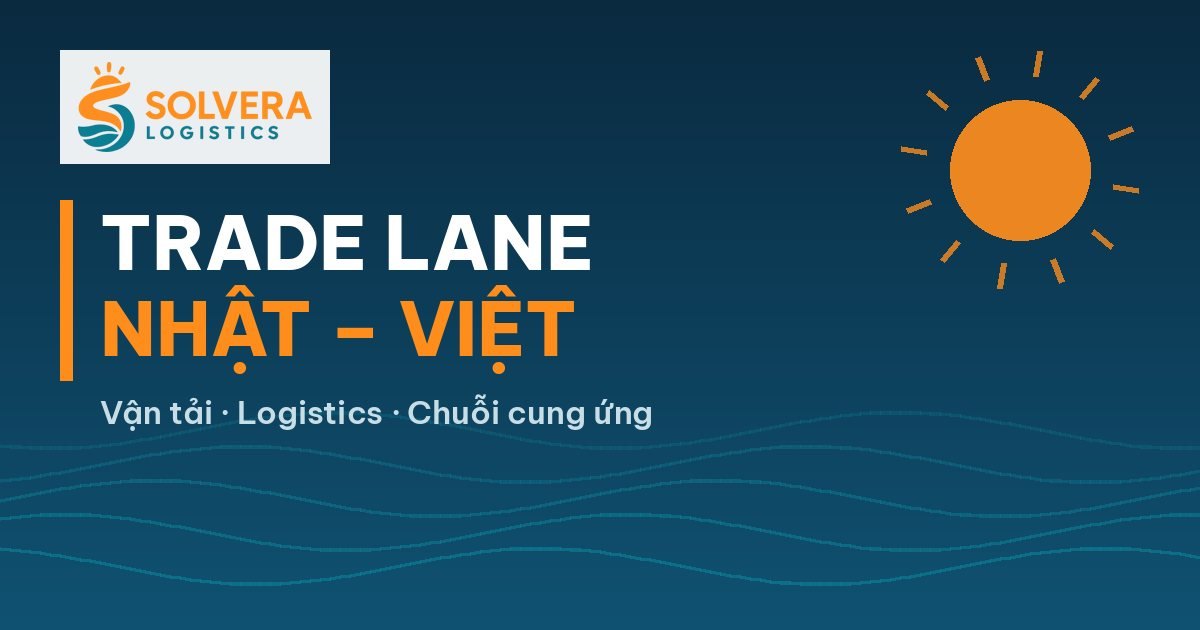
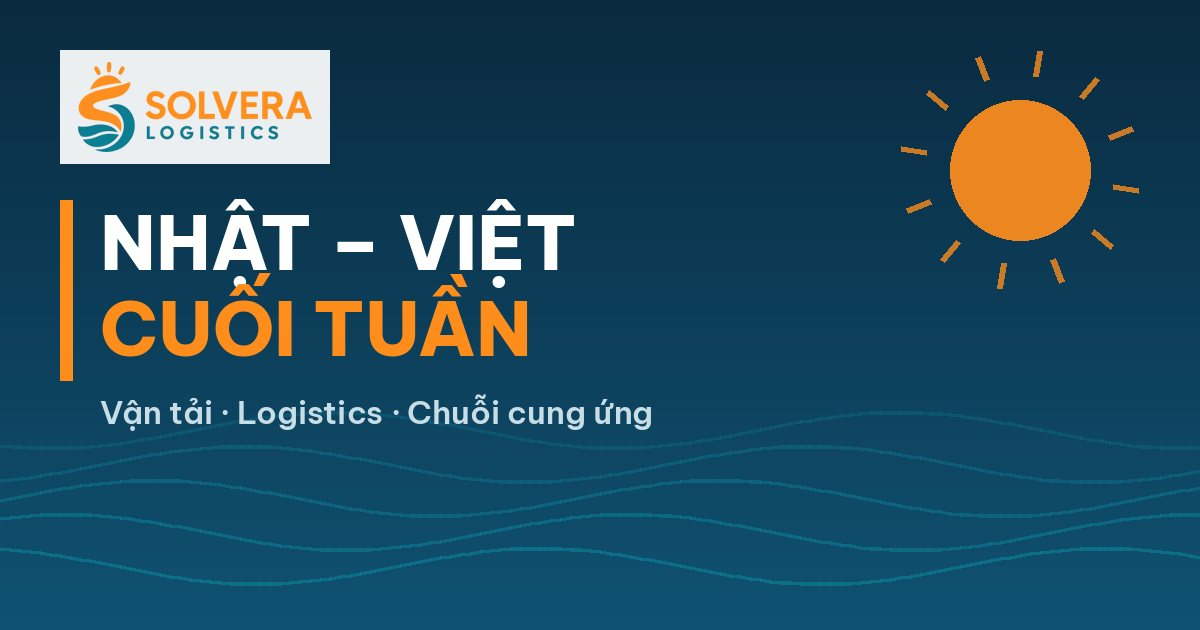
Đổi tên chuyên mục: Tin tức Nhật - Việt cuối tuần

Changed region(s): [[0.0617, 0.3016, 0.4933, 0.6032]]

diff --git a/index.html b/index.html
@@ -41,6 +41,6 @@ footer{background:var(--navy);color:#cfd8e3;text-align:center;padding:22px 16px;
 </style></head><body>
 <header><div class="bar"><a class="brand" href="/"><img src="/images/logo.png" alt="Solvera Logistics" style="height:40px;display:block"><span>News</span></a>
 <style>.soc{display:flex;gap:6px;align-items:center;margin-left:auto;margin-right:12px}.soc a{width:32px;height:32px;border-radius:50%;border:1.5px solid #0b7e93;display:flex;align-items:center;justify-content:center;color:#0b7e93;fill:#0b7e93;text-decoration:none}.soc a b{font:700 9px "Be Vietnam Pro",sans-serif}.soc a:hover{background:#0b7e93;color:#fff;fill:#fff}.svtop div,header .bar{flex-wrap:wrap;row-gap:8px}.lang{position:relative;margin-right:12px}.lang summary{list-style:none;cursor:pointer;font:600 13px "Be Vietnam Pro",sans-serif;color:#0b7e93;border:1.5px solid #0b7e93;border-radius:999px;padding:4px 10px;white-space:nowrap}.lang summary::-webkit-details-marker{display:none}.lang .lm{position:absolute;right:0;top:calc(100% + 6px);background:#fff;border-radius:10px;box-shadow:0 4px 16px rgba(0,0,0,.18);padding:6px;display:flex;flex-direction:column;gap:2px;z-index:50;min-width:110px}.lang .lm a{border:0;border-radius:6px;padding:8px 12px}.lang a{font:600 13px "Be Vietnam Pro",sans-serif;color:#0b7e93;border:1.5px solid #0b7e93;border-radius:999px;padding:4px 10px;text-decoration:none;white-space:nowrap}.lang a:hover{background:#0b7e93;color:#fff}.src,.src li{color:#0b7e93!important;font-style:italic}.src li::marker{color:#ff8d1c}.goog-te-banner-frame,#goog-gt-tt{display:none!important}body{top:0!important}@media(max-width:560px){.back,.bk{order:1;padding:4px 8px!important;font-size:12px!important;margin-left:auto}.soc{order:2;margin:0 6px 0 0}.soc a{width:28px;height:28px}.lang{order:3;margin:0}.lang summary{padding:3px 8px;font-size:12px}}</style><span class="soc notranslate" translate="no"><a href="https://zalo.me/2938397457262576692" target="_blank" rel="noopener" aria-label="Zalo" title="Zalo"><b>Zalo</b></a><a href="https://www.facebook.com/share/1CQrtY27t4/?mibextid=wwXIfr" target="_blank" rel="noopener" aria-label="Facebook" title="Facebook"><svg viewBox="0 0 24 24" width="16" height="16"><path d="M24 12.07C24 5.4 18.63 0 12 0S0 5.4 0 12.07C0 18.1 4.39 23.1 10.13 24v-8.44H7.08v-3.49h3.05V9.41c0-3.02 1.8-4.7 4.54-4.7 1.31 0 2.68.24 2.68.24v2.97h-1.5c-1.5 0-1.96.93-1.96 1.89v2.26h3.33l-.53 3.49h-2.8V24C19.61 23.1 24 18.1 24 12.07z"/></svg></a><a href="https://www.linkedin.com/company/solvera-logistics/" target="_blank" rel="noopener" aria-label="LinkedIn" title="LinkedIn"><svg viewBox="0 0 24 24" width="16" height="16"><path d="M20.45 20.45h-3.56v-5.57c0-1.33-.03-3.04-1.85-3.04-1.85 0-2.14 1.45-2.14 2.94v5.67H9.35V9h3.41v1.56h.05c.48-.9 1.64-1.85 3.37-1.85 3.6 0 4.27 2.37 4.27 5.46v6.28zM5.34 7.43a2.06 2.06 0 1 1 0-4.12 2.06 2.06 0 0 1 0 4.12zM7.12 20.45H3.56V9h3.56v11.45z"/></svg></a><a href="https://www.tiktok.com/@solveralogistics" target="_blank" rel="noopener" aria-label="TikTok" title="TikTok"><svg viewBox="0 0 24 24" width="16" height="16"><path d="M12.53.02C13.84 0 15.14.01 16.44 0c.08 1.53.63 3.09 1.75 4.17 1.12 1.11 2.7 1.62 4.24 1.79v4.03c-1.44-.05-2.89-.35-4.2-.97-.57-.26-1.1-.59-1.62-.93-.01 2.92.01 5.84-.02 8.75-.08 1.4-.54 2.79-1.35 3.94-1.31 1.92-3.58 3.17-5.91 3.21-1.43.08-2.86-.31-4.08-1.03-2.02-1.19-3.44-3.37-3.65-5.71-.02-.5-.03-1-.01-1.49.18-1.9 1.12-3.72 2.58-4.96 1.66-1.44 3.98-2.13 6.15-1.72.02 1.48-.04 2.96-.04 4.44-.99-.32-2.15-.23-3.02.37-.63.41-1.11 1.04-1.36 1.75-.21.51-.15 1.07-.14 1.61.24 1.64 1.82 3.02 3.5 2.87 1.12-.01 2.19-.66 2.77-1.61.19-.33.4-.67.41-1.06.1-1.79.06-3.57.07-5.36.01-4.03-.01-8.05.02-12.07z"/></svg></a><a href="https://www.youtube.com/@SOLVERALOGISTICS" target="_blank" rel="noopener" aria-label="YouTube" title="YouTube"><svg viewBox="0 0 24 24" width="16" height="16"><path d="M23.5 6.2a3 3 0 0 0-2.1-2.1C19.5 3.6 12 3.6 12 3.6s-7.5 0-9.4.5A3 3 0 0 0 .5 6.2C0 8.1 0 12 0 12s0 3.9.5 5.8a3 3 0 0 0 2.1 2.1c1.9.5 9.4.5 9.4.5s7.5 0 9.4-.5a3 3 0 0 0 2.1-2.1c.5-1.9.5-5.8.5-5.8s0-3.9-.5-5.8zM9.6 15.6V8.4l6.2 3.6-6.2 3.6z"/></svg></a></span><details class="lang notranslate" translate="no"><summary>🌐 Language ▾</summary><div class="lm"><a id="l-vi" href="#">VI</a><a id="l-en" href="#">EN</a><a id="l-ja" href="#">日本語</a><a id="l-zh" href="#">中文</a></div></details><script>(function(){var q=new URLSearchParams(location.search);["_x_tr_sl","_x_tr_tl","_x_tr_hl","_x_tr_pto"].forEach(function(k){q.delete(k)});var s=q.toString(),b=location.pathname+(s?"?"+s:""),t="https://news-solveralogistics-vn.translate.goog"+b+(s?"&":"?");document.getElementById("l-vi").href="https://news.solveralogistics.vn"+b;document.getElementById("l-en").href=t+"_x_tr_sl=vi&_x_tr_tl=en&_x_tr_hl=en";document.getElementById("l-ja").href=t+"_x_tr_sl=vi&_x_tr_tl=ja&_x_tr_hl=ja";document.getElementById("l-zh").href=t+"_x_tr_sl=vi&_x_tr_tl=zh-CN&_x_tr_hl=zh-CN"})()</script><a class="back" href="https://solveralogistics.vn">← Main website</a></div></header>
-<div class="hero2"><div class="hw"><div class="eb">Solvera Logistics</div><h1>Solvera Logistics News</h1><p>Tin tức hàng hải, hàng không, logistics, Supply Chain và kinh doanh xuất nhập khẩu.</p></div></div><div class="tabs"><button class="tab on" data-f="all">Tất cả <i>3</i></button><button class="tab" data-f="Tin tức đầu tuần">Tin tức đầu tuần <i>2</i></button><button class="tab" data-f="Tin tức trade lane Nhật - Việt">Tin tức trade lane Nhật - Việt <i>1</i></button><button class="tab" data-f="Phân tích chuyên sâu">Phân tích chuyên sâu <i>0</i></button></div><div class="grid2"><a class="card big" data-cat="Tin tức đầu tuần" href="/ban-tin-tuan-2026-10-13/"><img src="/images/thumb-tuan.jpg" alt="Tin tức đầu tuần" loading="lazy"><div class="in"><span class="tag">Tin tức đầu tuần</span><h2>Tin tức đầu tuần 06–13/10/2026: Hàng hải, Hàng không &amp; Xuất nhập khẩu</h2><p>Cước Viễn Đông–Bắc Âu giảm 34% từ đỉnh tháng 7; hàng không tháng 9 tăng 6%, cước 3,10 USD/kg (+27%); xuất khẩu 9 tháng đạt 434,3 tỷ USD.</p><div class="foot"><span class="dt">13/10/2026</span><span class="more">Đọc tiếp →</span></div></div></a><a class="card" data-cat="Tin tức trade lane Nhật - Việt" href="/ban-tin-nhat-viet-2026-10-10/"><img src="/images/thumb-nhatviet.jpg" alt="Tin tức trade lane Nhật - Việt" loading="lazy"><div class="in"><span class="tag">Tin tức trade lane Nhật - Việt</span><h2>Tin tức trade lane Nhật - Việt 10/10/2026: Vận tải, Logistics &amp; Chuỗi cung ứng</h2><p>Tin tuần về vận tải biển, hàng không, thương mại, kho bãi, hải quan, vận chuyển nội địa, chứng từ và chuỗi cung ứng tuyến Nhật – Việt, kèm khuyến nghị cho chủ hàng.</p><div class="foot"><span class="dt">10/10/2026</span><span class="more">Đọc tiếp →</span></div></div></a><a class="card" data-cat="Tin tức đầu tuần" href="/ban-tin-tuan-2026-10-08/"><img src="/images/thumb-tuan.jpg" alt="Tin tức đầu tuần" loading="lazy"><div class="in"><span class="tag">Tin tức đầu tuần</span><h2>Tin tức đầu tuần 01–08/10/2026: Hàng hải, Hàng không &amp; Xuất nhập khẩu</h2><p>Cước biển Á–Âu giảm 12 tuần liên tiếp, xuất nhập khẩu 9 tháng đạt 888 tỷ USD, hàng không tăng 4,4%: tin chính, tác động và khuyến nghị cho chủ hàng.</p><div class="foot"><span class="dt">08/10/2026</span><span class="more">Đọc tiếp →</span></div></div></a><div class="empty" data-cat="Phân tích chuyên sâu"><b>Phân tích chuyên sâu</b><p>Chuyên mục sắp ra mắt: các bài phân tích chuyên gia của Solvera Logistics về hàng hải, hàng không, xuất nhập khẩu và chuỗi cung ứng.</p></div></div><script>document.querySelectorAll(".tab").forEach(function(t){t.onclick=function(){document.querySelectorAll(".tab").forEach(function(x){x.classList.remove("on")});t.classList.add("on");var f=t.dataset.f;document.querySelectorAll("[data-cat]").forEach(function(c){c.style.display=(f=="all"||c.dataset.cat==f)?"":"none"});var any=0;document.querySelectorAll(".card").forEach(function(c){if(c.style.display!="none")any++});}})</script>
+<div class="hero2"><div class="hw"><div class="eb">Solvera Logistics</div><h1>Solvera Logistics News</h1><p>Tin tức hàng hải, hàng không, logistics, Supply Chain và kinh doanh xuất nhập khẩu.</p></div></div><div class="tabs"><button class="tab on" data-f="all">Tất cả <i>3</i></button><button class="tab" data-f="Tin tức đầu tuần">Tin tức đầu tuần <i>2</i></button><button class="tab" data-f="Tin tức Nhật - Việt cuối tuần">Tin tức Nhật - Việt cuối tuần <i>1</i></button><button class="tab" data-f="Phân tích chuyên sâu">Phân tích chuyên sâu <i>0</i></button></div><div class="grid2"><a class="card big" data-cat="Tin tức đầu tuần" href="/ban-tin-tuan-2026-10-13/"><img src="/images/thumb-tuan.jpg" alt="Tin tức đầu tuần" loading="lazy"><div class="in"><span class="tag">Tin tức đầu tuần</span><h2>Tin tức đầu tuần 06–13/10/2026: Hàng hải, Hàng không &amp; Xuất nhập khẩu</h2><p>Cước Viễn Đông–Bắc Âu giảm 34% từ đỉnh tháng 7; hàng không tháng 9 tăng 6%, cước 3,10 USD/kg (+27%); xuất khẩu 9 tháng đạt 434,3 tỷ USD.</p><div class="foot"><span class="dt">13/10/2026</span><span class="more">Đọc tiếp →</span></div></div></a><a class="card" data-cat="Tin tức Nhật - Việt cuối tuần" href="/ban-tin-nhat-viet-2026-10-10/"><img src="/images/thumb-nhatviet.jpg" alt="Tin tức Nhật - Việt cuối tuần" loading="lazy"><div class="in"><span class="tag">Tin tức Nhật - Việt cuối tuần</span><h2>Tin tức Nhật - Việt cuối tuần 10/10/2026: Vận tải, Logistics &amp; Chuỗi cung ứng</h2><p>Tin tuần về vận tải biển, hàng không, thương mại, kho bãi, hải quan, vận chuyển nội địa, chứng từ và chuỗi cung ứng tuyến Nhật – Việt, kèm khuyến nghị cho chủ hàng.</p><div class="foot"><span class="dt">10/10/2026</span><span class="more">Đọc tiếp →</span></div></div></a><a class="card" data-cat="Tin tức đầu tuần" href="/ban-tin-tuan-2026-10-08/"><img src="/images/thumb-tuan.jpg" alt="Tin tức đầu tuần" loading="lazy"><div class="in"><span class="tag">Tin tức đầu tuần</span><h2>Tin tức đầu tuần 01–08/10/2026: Hàng hải, Hàng không &amp; Xuất nhập khẩu</h2><p>Cước biển Á–Âu giảm 12 tuần liên tiếp, xuất nhập khẩu 9 tháng đạt 888 tỷ USD, hàng không tăng 4,4%: tin chính, tác động và khuyến nghị cho chủ hàng.</p><div class="foot"><span class="dt">08/10/2026</span><span class="more">Đọc tiếp →</span></div></div></a><div class="empty" data-cat="Phân tích chuyên sâu"><b>Phân tích chuyên sâu</b><p>Chuyên mục sắp ra mắt: các bài phân tích chuyên gia của Solvera Logistics về hàng hải, hàng không, xuất nhập khẩu và chuỗi cung ứng.</p></div></div><script>document.querySelectorAll(".tab").forEach(function(t){t.onclick=function(){document.querySelectorAll(".tab").forEach(function(x){x.classList.remove("on")});t.classList.add("on");var f=t.dataset.f;document.querySelectorAll("[data-cat]").forEach(function(c){c.style.display=(f=="all"||c.dataset.cat==f)?"":"none"});var any=0;document.querySelectorAll(".card").forEach(function(c){if(c.style.display!="none")any++});}})</script>
 <footer>© Solvera Logistics Co., Ltd · <a href="https://solveralogistics.vn">solveralogistics.vn</a> · Hanoi</footer>
 </body></html>

diff --git a/ban-tin-nhat-viet-2026-10-10/index.html b/ban-tin-nhat-viet-2026-10-10/index.html
@@ -1,8 +1,8 @@
 <!doctype html><html lang="vi"><head><meta charset="utf-8">
 <meta name="viewport" content="width=device-width,initial-scale=1">
-<title>Tin tức trade lane Nhật - Việt 10/10/2026 | Solvera News</title><meta name="description" content="Tin tuần về vận tải biển, hàng không, thương mại, kho bãi, hải quan, vận chuyển nội địa, chứng từ và chuỗi cung ứng tuyến Nhật – Việt, kèm khuyến nghị…"><script type="application/ld+json">{"@context": "https://schema.org", "@type": "NewsArticle", "headline": "Tin tức trade lane Nhật - Việt 10/10/2026: Vận tải, Logistics & Chuỗi cung ứng", "datePublished": "2026-10-10", "dateModified": "2026-10-10", "inLanguage": "vi", "description": "Tin tuần về vận tải biển, hàng không, thương mại, kho bãi, hải quan, vận chuyển nội địa, chứng từ và chuỗi cung ứng tuyến Nhật – Việt, kèm khuyến nghị…", "image": ["https://news.solveralogistics.vn/images/og.png"], "mainEntityOfPage": "https://news.solveralogistics.vn/ban-tin-nhat-viet-2026-10-10/", "author": {"@type": "Organization", "name": "Solvera Logistics"}, "publisher": {"@type": "Organization", "name": "Solvera Logistics", "logo": {"@type": "ImageObject", "url": "https://news.solveralogistics.vn/images/logo.png"}}}</script>
+<title>Tin tức Nhật - Việt cuối tuần 10/10/2026 | Solvera News</title><meta name="description" content="Tin tuần về vận tải biển, hàng không, thương mại, kho bãi, hải quan, vận chuyển nội địa, chứng từ và chuỗi cung ứng tuyến Nhật – Việt, kèm khuyến nghị…"><script type="application/ld+json">{"@context": "https://schema.org", "@type": "NewsArticle", "headline": "Tin tức Nhật - Việt cuối tuần 10/10/2026: Vận tải, Logistics & Chuỗi cung ứng", "datePublished": "2026-10-10", "dateModified": "2026-10-10", "inLanguage": "vi", "description": "Tin tuần về vận tải biển, hàng không, thương mại, kho bãi, hải quan, vận chuyển nội địa, chứng từ và chuỗi cung ứng tuyến Nhật – Việt, kèm khuyến nghị…", "image": ["https://news.solveralogistics.vn/images/og.png"], "mainEntityOfPage": "https://news.solveralogistics.vn/ban-tin-nhat-viet-2026-10-10/", "author": {"@type": "Organization", "name": "Solvera Logistics"}, "publisher": {"@type": "Organization", "name": "Solvera Logistics", "logo": {"@type": "ImageObject", "url": "https://news.solveralogistics.vn/images/logo.png"}}}</script>
 <link rel="canonical" href="https://news.solveralogistics.vn/ban-tin-nhat-viet-2026-10-10/">
-<meta property="og:image" content="https://news.solveralogistics.vn/images/og.png"><meta property="og:image:width" content="1200"><meta property="og:image:height" content="630"><meta name="twitter:card" content="summary_large_image"><meta property="og:title" content="Tin tức trade lane Nhật - Việt 10/10/2026 | Solvera News"><meta property="og:description" content="Tin tuần về vận tải biển, hàng không, thương mại, kho bãi, hải quan, vận chuyển nội địa, chứng từ và chuỗi cung ứng tuyến Nhật – Việt, kèm khuyến nghị cho chủ hàng.">
+<meta property="og:image" content="https://news.solveralogistics.vn/images/og.png"><meta property="og:image:width" content="1200"><meta property="og:image:height" content="630"><meta name="twitter:card" content="summary_large_image"><meta property="og:title" content="Tin tức Nhật - Việt cuối tuần 10/10/2026 | Solvera News"><meta property="og:description" content="Tin tuần về vận tải biển, hàng không, thương mại, kho bãi, hải quan, vận chuyển nội địa, chứng từ và chuỗi cung ứng tuyến Nhật – Việt, kèm khuyến nghị cho chủ hàng.">
 <link rel="stylesheet" href="https://fonts.googleapis.com/css2?family=Be+Vietnam+Pro:wght@400;600;700;800&display=swap">
 <style>:root{color-scheme:light;box-sizing:border-box;padding-top:env(safe-area-inset-top,0px);padding-bottom:env(safe-area-inset-bottom,0px)}html{scroll-padding-top:env(safe-area-inset-top,0px)}body{margin:0;padding:0;font:14px -apple-system,BlinkMacSystemFont,sans-serif;background:#fff;color:#000}img{max-width:100%}[hidden]:not([hidden=until-found i]){display:none!important}
 
@@ -59,7 +59,7 @@ button.copy:focus-visible { outline: 3px solid var(--teal); outline-offset: 2px;
 <div class="svtop"><div><a href="/" class="lg"><img src="/images/logo.png" alt="Solvera Logistics" height="40"><span>News</span></a><style>.soc{display:flex;gap:6px;align-items:center;margin-left:auto;margin-right:12px}.soc a{width:32px;height:32px;border-radius:50%;border:1.5px solid #0b7e93;display:flex;align-items:center;justify-content:center;color:#0b7e93;fill:#0b7e93;text-decoration:none}.soc a b{font:700 9px "Be Vietnam Pro",sans-serif}.soc a:hover{background:#0b7e93;color:#fff;fill:#fff}.svtop div,header .bar{flex-wrap:wrap;row-gap:8px}.lang{position:relative;margin-right:12px}.lang summary{list-style:none;cursor:pointer;font:600 13px "Be Vietnam Pro",sans-serif;color:#0b7e93;border:1.5px solid #0b7e93;border-radius:999px;padding:4px 10px;white-space:nowrap}.lang summary::-webkit-details-marker{display:none}.lang .lm{position:absolute;right:0;top:calc(100% + 6px);background:#fff;border-radius:10px;box-shadow:0 4px 16px rgba(0,0,0,.18);padding:6px;display:flex;flex-direction:column;gap:2px;z-index:50;min-width:110px}.lang .lm a{border:0;border-radius:6px;padding:8px 12px}.lang a{font:600 13px "Be Vietnam Pro",sans-serif;color:#0b7e93;border:1.5px solid #0b7e93;border-radius:999px;padding:4px 10px;text-decoration:none;white-space:nowrap}.lang a:hover{background:#0b7e93;color:#fff}.src,.src li{color:#0b7e93!important;font-style:italic}.src li::marker{color:#ff8d1c}.goog-te-banner-frame,#goog-gt-tt{display:none!important}body{top:0!important}@media(max-width:560px){.back,.bk{order:1;padding:4px 8px!important;font-size:12px!important;margin-left:auto}.soc{order:2;margin:0 6px 0 0}.soc a{width:28px;height:28px}.lang{order:3;margin:0}.lang summary{padding:3px 8px;font-size:12px}}</style><span class="soc notranslate" translate="no"><a href="https://zalo.me/2938397457262576692" target="_blank" rel="noopener" aria-label="Zalo" title="Zalo"><b>Zalo</b></a><a href="https://www.facebook.com/share/1CQrtY27t4/?mibextid=wwXIfr" target="_blank" rel="noopener" aria-label="Facebook" title="Facebook"><svg viewBox="0 0 24 24" width="16" height="16"><path d="M24 12.07C24 5.4 18.63 0 12 0S0 5.4 0 12.07C0 18.1 4.39 23.1 10.13 24v-8.44H7.08v-3.49h3.05V9.41c0-3.02 1.8-4.7 4.54-4.7 1.31 0 2.68.24 2.68.24v2.97h-1.5c-1.5 0-1.96.93-1.96 1.89v2.26h3.33l-.53 3.49h-2.8V24C19.61 23.1 24 18.1 24 12.07z"/></svg></a><a href="https://www.linkedin.com/company/solvera-logistics/" target="_blank" rel="noopener" aria-label="LinkedIn" title="LinkedIn"><svg viewBox="0 0 24 24" width="16" height="16"><path d="M20.45 20.45h-3.56v-5.57c0-1.33-.03-3.04-1.85-3.04-1.85 0-2.14 1.45-2.14 2.94v5.67H9.35V9h3.41v1.56h.05c.48-.9 1.64-1.85 3.37-1.85 3.6 0 4.27 2.37 4.27 5.46v6.28zM5.34 7.43a2.06 2.06 0 1 1 0-4.12 2.06 2.06 0 0 1 0 4.12zM7.12 20.45H3.56V9h3.56v11.45z"/></svg></a><a href="https://www.tiktok.com/@solveralogistics" target="_blank" rel="noopener" aria-label="TikTok" title="TikTok"><svg viewBox="0 0 24 24" width="16" height="16"><path d="M12.53.02C13.84 0 15.14.01 16.44 0c.08 1.53.63 3.09 1.75 4.17 1.12 1.11 2.7 1.62 4.24 1.79v4.03c-1.44-.05-2.89-.35-4.2-.97-.57-.26-1.1-.59-1.62-.93-.01 2.92.01 5.84-.02 8.75-.08 1.4-.54 2.79-1.35 3.94-1.31 1.92-3.58 3.17-5.91 3.21-1.43.08-2.86-.31-4.08-1.03-2.02-1.19-3.44-3.37-3.65-5.71-.02-.5-.03-1-.01-1.49.18-1.9 1.12-3.72 2.58-4.96 1.66-1.44 3.98-2.13 6.15-1.72.02 1.48-.04 2.96-.04 4.44-.99-.32-2.15-.23-3.02.37-.63.41-1.11 1.04-1.36 1.75-.21.51-.15 1.07-.14 1.61.24 1.64 1.82 3.02 3.5 2.87 1.12-.01 2.19-.66 2.77-1.61.19-.33.4-.67.41-1.06.1-1.79.06-3.57.07-5.36.01-4.03-.01-8.05.02-12.07z"/></svg></a><a href="https://www.youtube.com/@SOLVERALOGISTICS" target="_blank" rel="noopener" aria-label="YouTube" title="YouTube"><svg viewBox="0 0 24 24" width="16" height="16"><path d="M23.5 6.2a3 3 0 0 0-2.1-2.1C19.5 3.6 12 3.6 12 3.6s-7.5 0-9.4.5A3 3 0 0 0 .5 6.2C0 8.1 0 12 0 12s0 3.9.5 5.8a3 3 0 0 0 2.1 2.1c1.9.5 9.4.5 9.4.5s7.5 0 9.4-.5a3 3 0 0 0 2.1-2.1c.5-1.9.5-5.8.5-5.8s0-3.9-.5-5.8zM9.6 15.6V8.4l6.2 3.6-6.2 3.6z"/></svg></a></span><details class="lang notranslate" translate="no"><summary>🌐 Language ▾</summary><div class="lm"><a id="l-vi" href="#">VI</a><a id="l-en" href="#">EN</a><a id="l-ja" href="#">日本語</a><a id="l-zh" href="#">中文</a></div></details><script>(function(){var q=new URLSearchParams(location.search);["_x_tr_sl","_x_tr_tl","_x_tr_hl","_x_tr_pto"].forEach(function(k){q.delete(k)});var s=q.toString(),b=location.pathname+(s?"?"+s:""),t="https://news-solveralogistics-vn.translate.goog"+b+(s?"&":"?");document.getElementById("l-vi").href="https://news.solveralogistics.vn"+b;document.getElementById("l-en").href=t+"_x_tr_sl=vi&_x_tr_tl=en&_x_tr_hl=en";document.getElementById("l-ja").href=t+"_x_tr_sl=vi&_x_tr_tl=ja&_x_tr_hl=ja";document.getElementById("l-zh").href=t+"_x_tr_sl=vi&_x_tr_tl=zh-CN&_x_tr_hl=zh-CN"})()</script><a class="bk" href="https://solveralogistics.vn">← Main website</a></div></div>
 <header class="mast"><div class="wrap">
   <div class="eyebrow">Solvera Logistics · Tin tức đầu tuần</div>
-  <h1>Tin tức trade lane Nhật - Việt: Vận tải, Logistics &amp; Chuỗi cung ứng</h1>
+  <h1>Tin tức Nhật - Việt cuối tuần: Vận tải, Logistics &amp; Chuỗi cung ứng</h1>
   <p>Tin tổng hợp tuần 05–10/10/2026. Tin có ngày đăng trước 05/10 được ghi rõ ngày.</p>
   <span class="date">Thứ Bảy, 10/10/2026</span>
 </div></header>

diff --git a/add_post.py b/add_post.py
@@ -43,10 +43,10 @@ p = pathlib.Path("posts.json")
 posts = json.loads(p.read_text(encoding="utf8"))
 posts = [x for x in posts if x["slug"] != slug]
 def _norm(x):
-    for a, b in (("Bản tin tuần", "Tin tức đầu tuần"), ("Bản tin Tuần", "Tin tức đầu tuần"), ("Bản tin Nhật – Việt", "Tin tức trade lane Nhật - Việt"), ("Bản tin Nhật - Việt", "Tin tức trade lane Nhật - Việt")):
+    for a, b in (("Bản tin tuần", "Tin tức đầu tuần"), ("Bản tin Tuần", "Tin tức đầu tuần"), ("Bản tin Nhật – Việt", "Tin tức Nhật - Việt cuối tuần"), ("Bản tin Nhật - Việt", "Tin tức Nhật - Việt cuối tuần")):
         x = x.replace(a, b)
     return x
-cat = "Tin tức trade lane Nhật - Việt" if cat.startswith("Nhật") else _norm(cat)
+cat = "Tin tức Nhật - Việt cuối tuần" if cat.startswith("Nhật") else _norm(cat)
 title, mast = _norm(title), _norm(mast)
 posts.append(dict(slug=slug, date=date, category=cat, title=title, summary=summ, image=image,
                   body_html="", page_css=css, mast_html=mast, main_html=body))

diff --git a/build.py b/build.py
@@ -100,8 +100,8 @@ def main():
     (OUT / "CNAME").write_text(DOMAIN)
     (OUT / ".nojekyll").write_text("")
 
-    TH = {"Tin tức đầu tuần": "/images/thumb-tuan.jpg", "Tin tức trade lane Nhật - Việt": "/images/thumb-nhatviet.jpg", "Phân tích chuyên sâu": "/images/thumb-phantich.jpg"}
-    CATS = ["Tin tức đầu tuần", "Tin tức trade lane Nhật - Việt", "Phân tích chuyên sâu"]
+    TH = {"Tin tức đầu tuần": "/images/thumb-tuan.jpg", "Tin tức Nhật - Việt cuối tuần": "/images/thumb-nhatviet.jpg", "Phân tích chuyên sâu": "/images/thumb-phantich.jpg"}
+    CATS = ["Tin tức đầu tuần", "Tin tức Nhật - Việt cuối tuần", "Phân tích chuyên sâu"]
     def card(p, big=False):
         im = p.get("image") or TH.get(p["category"], "/images/og.png")
         y, m, d_ = p["date"].split("-")
